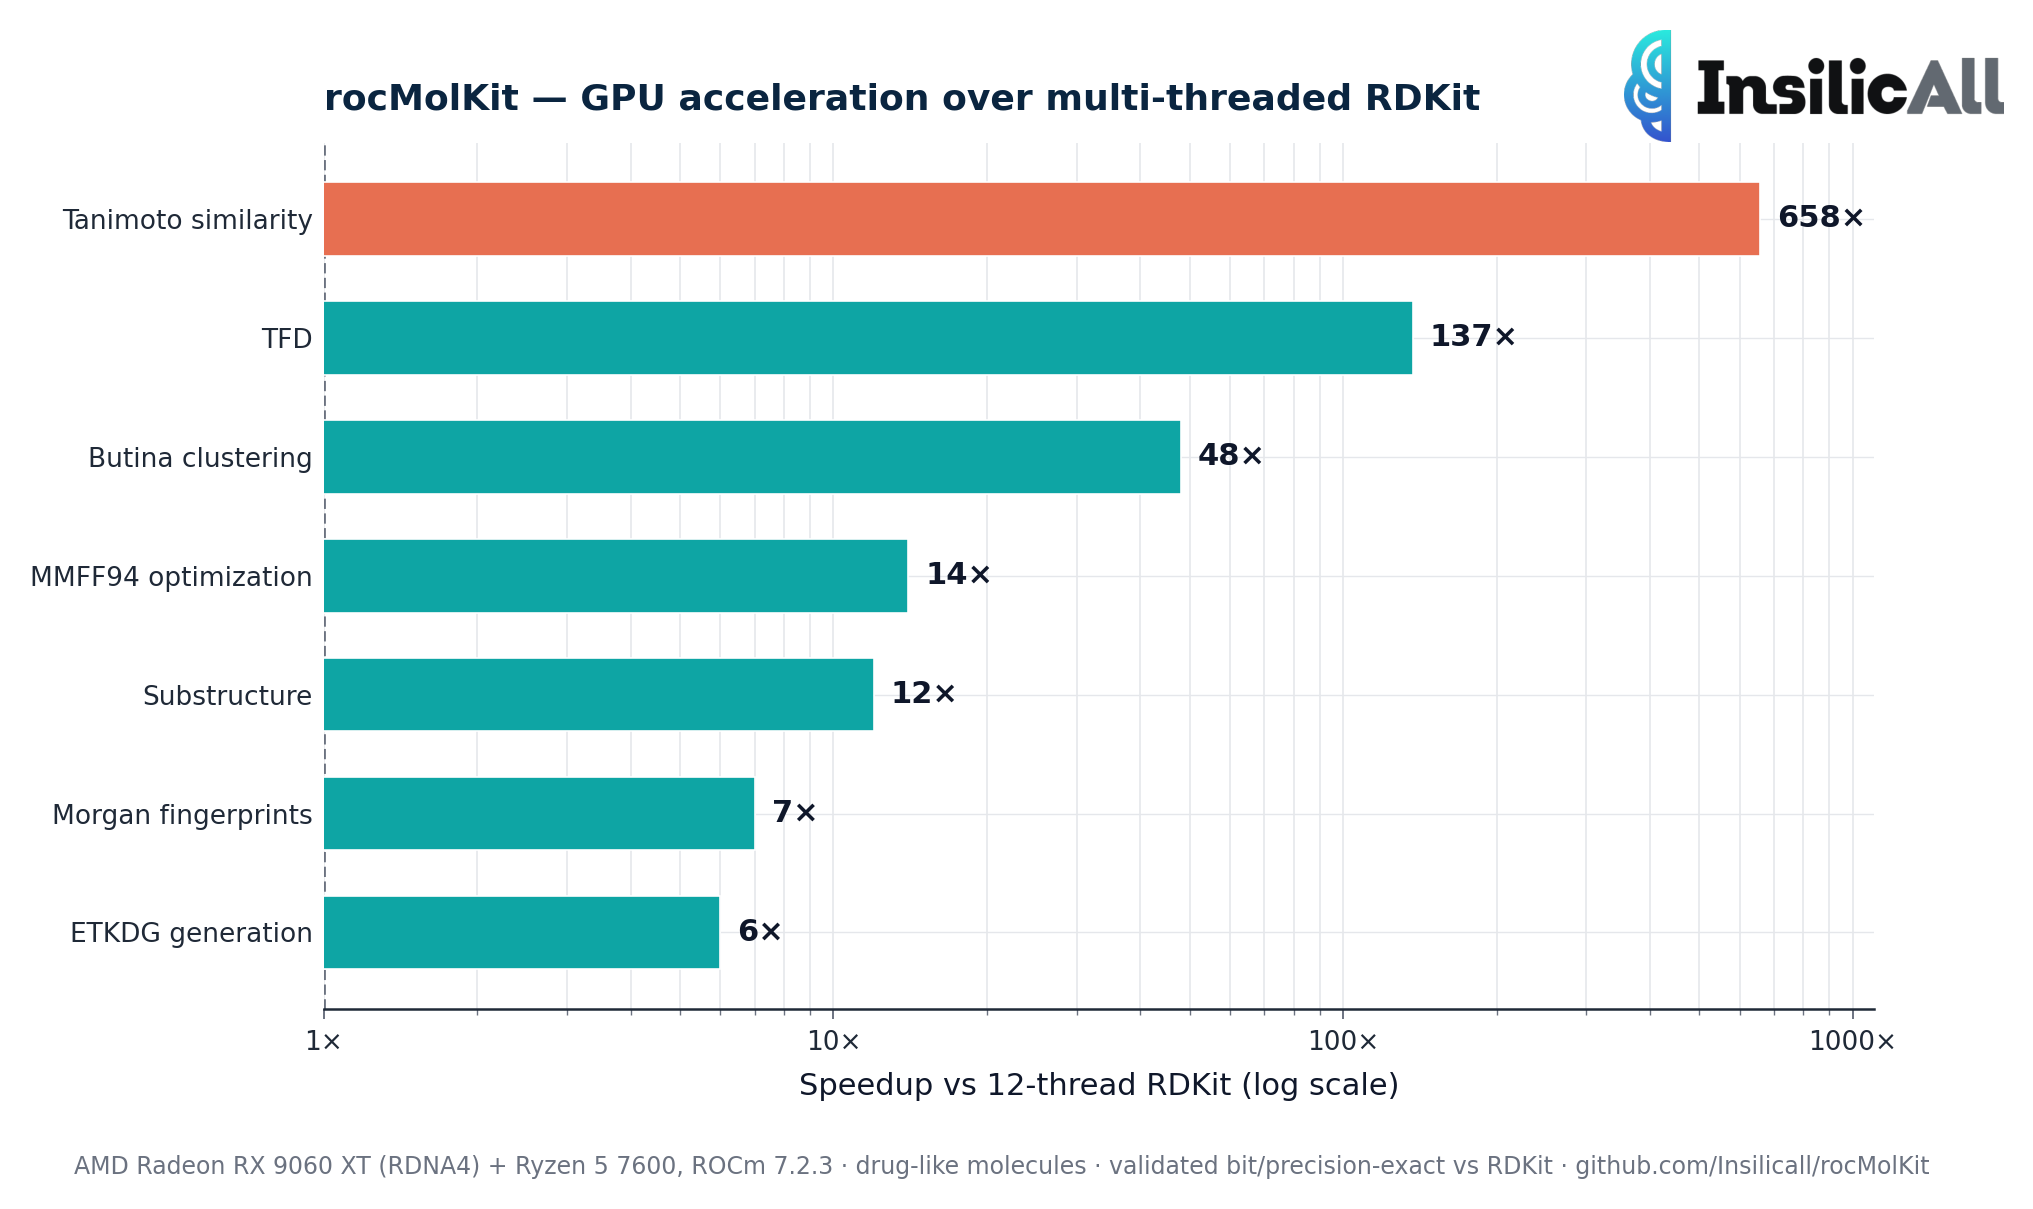
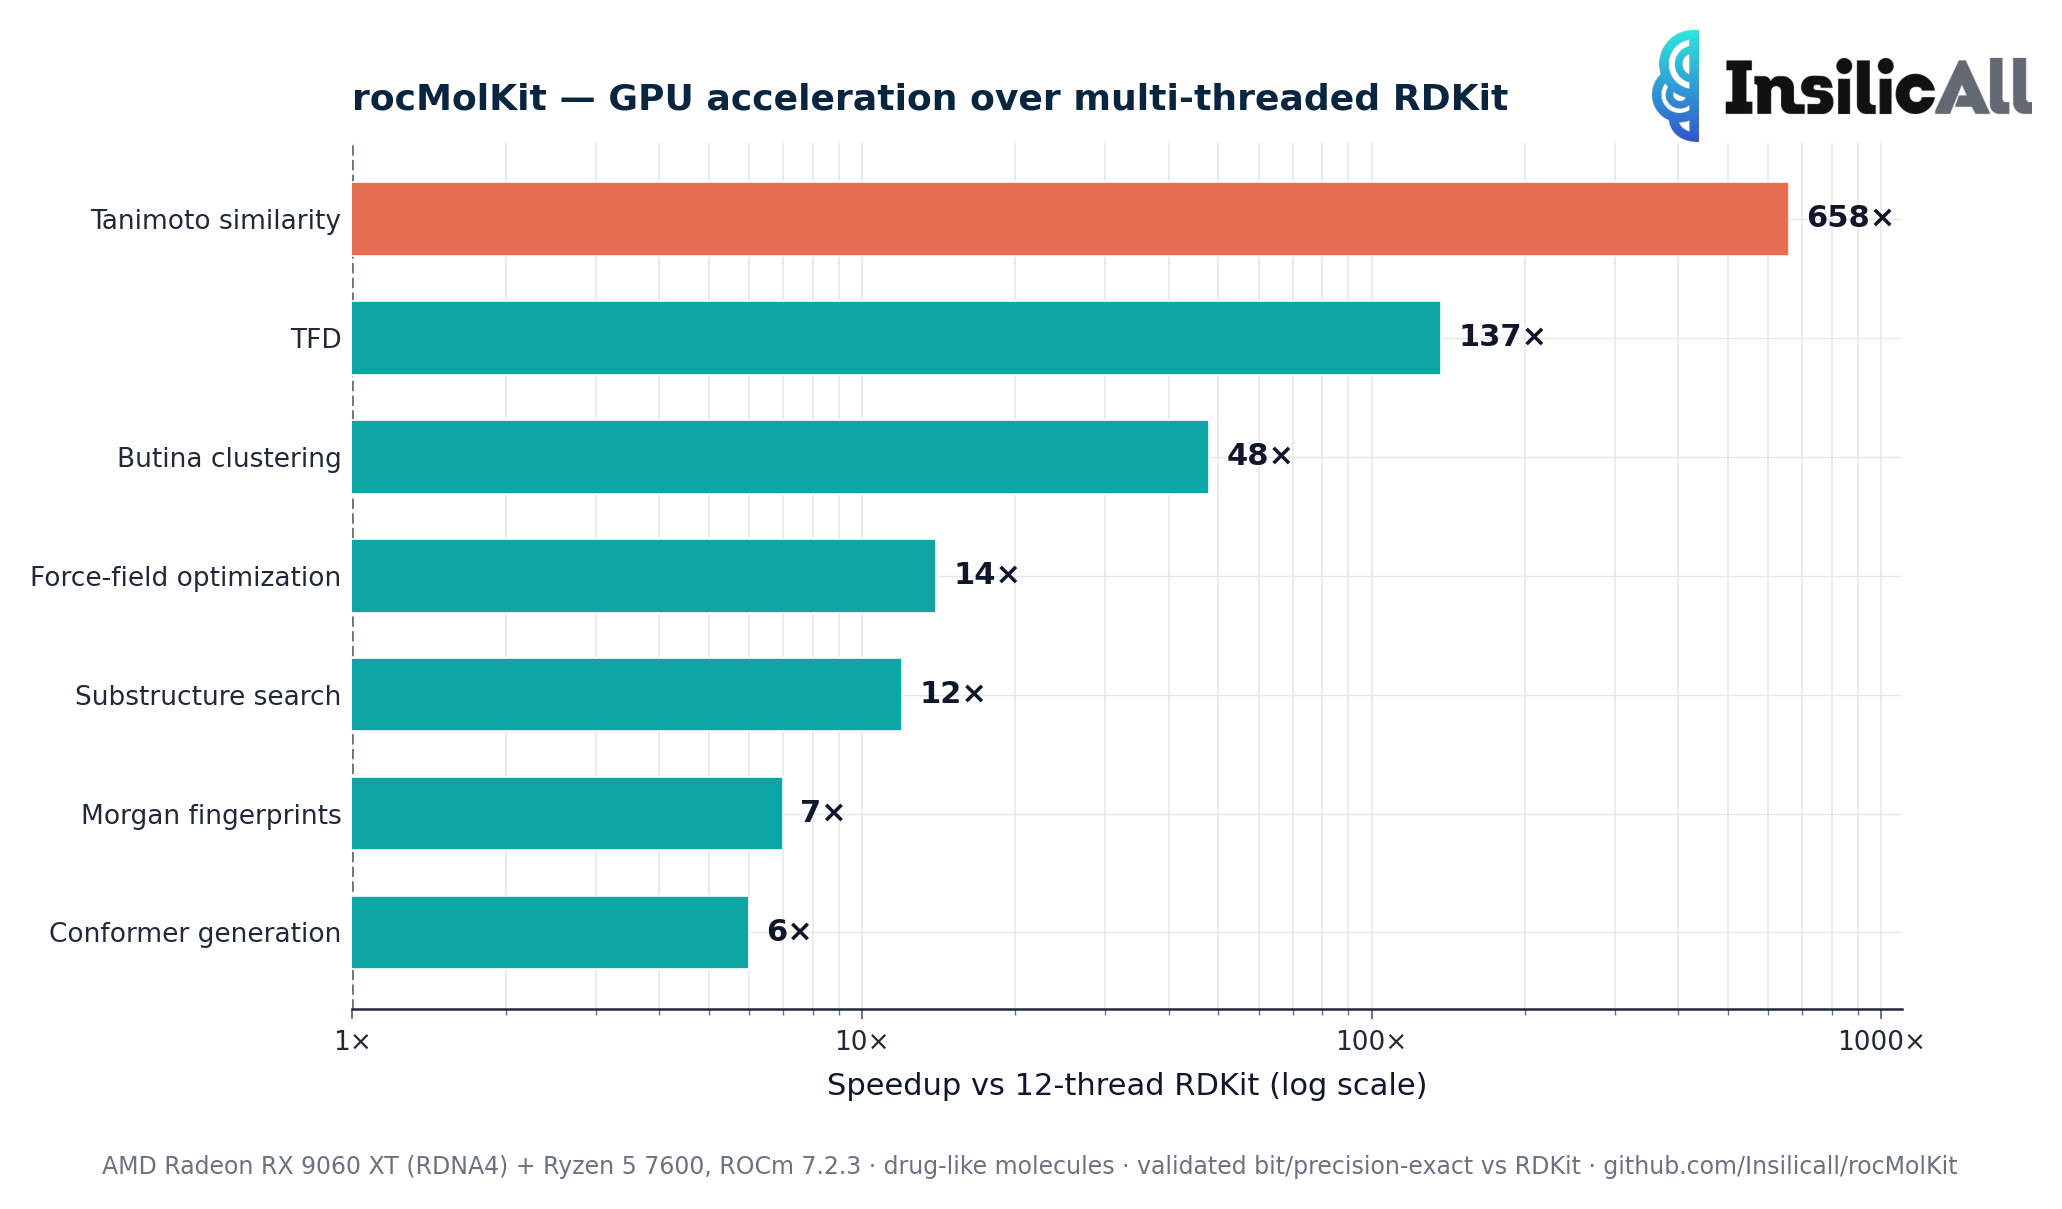
docs: plain-language labels on the chart + broader tagline
Users don't know "ETKDG" / "MMFF94" — relabel the speedup chart with the task
names: Conformer generation, Force-field optimization, Substructure search.

Broaden the README one-liner (was just "conformer generation and force-field
optimization") to name the full set of accelerated workloads — conformers,
geometry optimization, fingerprints, similarity, clustering, substructure, TFD —
on AMD GPUs via HIP/ROCm.

diff --git a/tools/make_perf_chart.py b/tools/make_perf_chart.py
@@ -29,10 +29,10 @@ data = [
     ("Tanimoto similarity", 658),
     ("TFD", 137),
     ("Butina clustering", 48),
-    ("MMFF94 optimization", 14),
-    ("Substructure", 12),
+    ("Force-field optimization", 14),
+    ("Substructure search", 12),
     ("Morgan fingerprints", 7),
-    ("ETKDG generation", 6),
+    ("Conformer generation", 6),
 ]
 data.sort(key=lambda t: t[1])
 labels = [d[0] for d in data]

diff --git a/README.md b/README.md
@@ -3,7 +3,7 @@
 [![ci](https://github.com/Insilicall/rocMolKit/actions/workflows/ci.yml/badge.svg)](https://github.com/Insilicall/rocMolKit/actions/workflows/ci.yml)
 [![License: Apache 2.0](https://img.shields.io/badge/License-Apache%202.0-blue.svg)](LICENSE)
 
-**GPU-accelerated conformer generation and force-field optimization for RDKit, on AMD GPUs** — via HIP/ROCm.
+**A high-performance, GPU-accelerated library for everyday computational-chemistry work on AMD GPUs** — conformer generation, force-field geometry optimization, fingerprints, molecular similarity, clustering, substructure search and torsion-fingerprint deviation, via HIP/ROCm. Drop-in for RDKit workflows.
 
 HIP/ROCm port of [nvMolKit](https://github.com/NVIDIA-Digital-Bio/nvMolKit) (NVIDIA CUDA, Apache 2.0) — same API surface, AMD backend. On a **consumer** Radeon RX 9060 XT it runs ETKDG conformer generation and MMFF94 optimization **faster than the published Apple-Silicon sibling port ([mlxmolkit](https://github.com/guillaume-osmo/mlxmolkit))** and an order of magnitude faster than multi-threaded RDKit on CPU.
 
